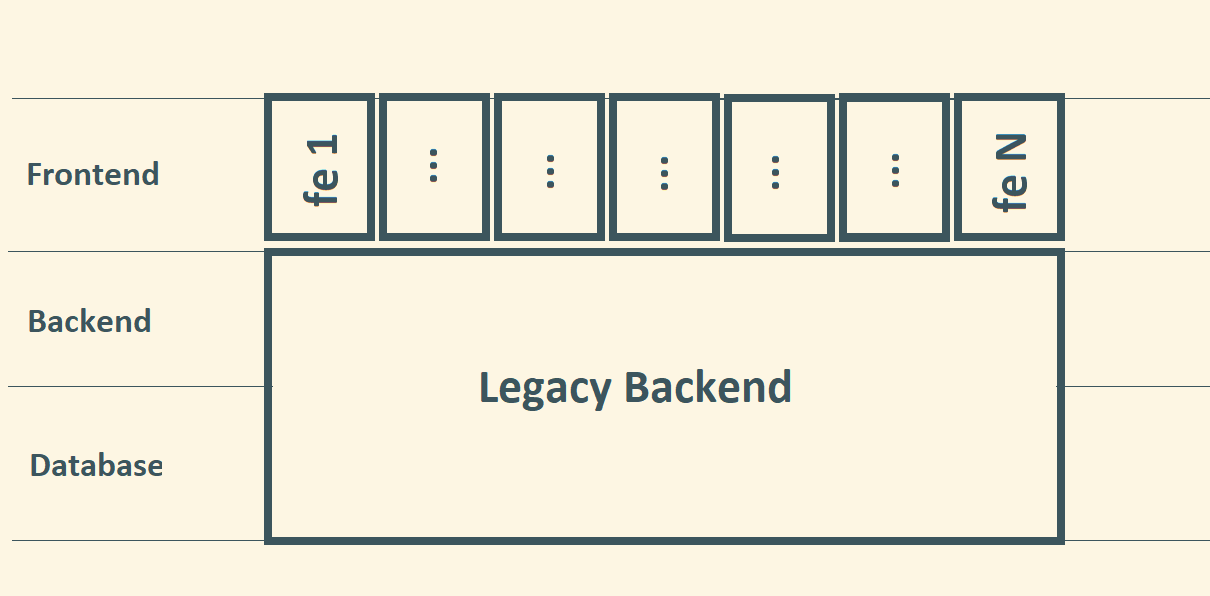
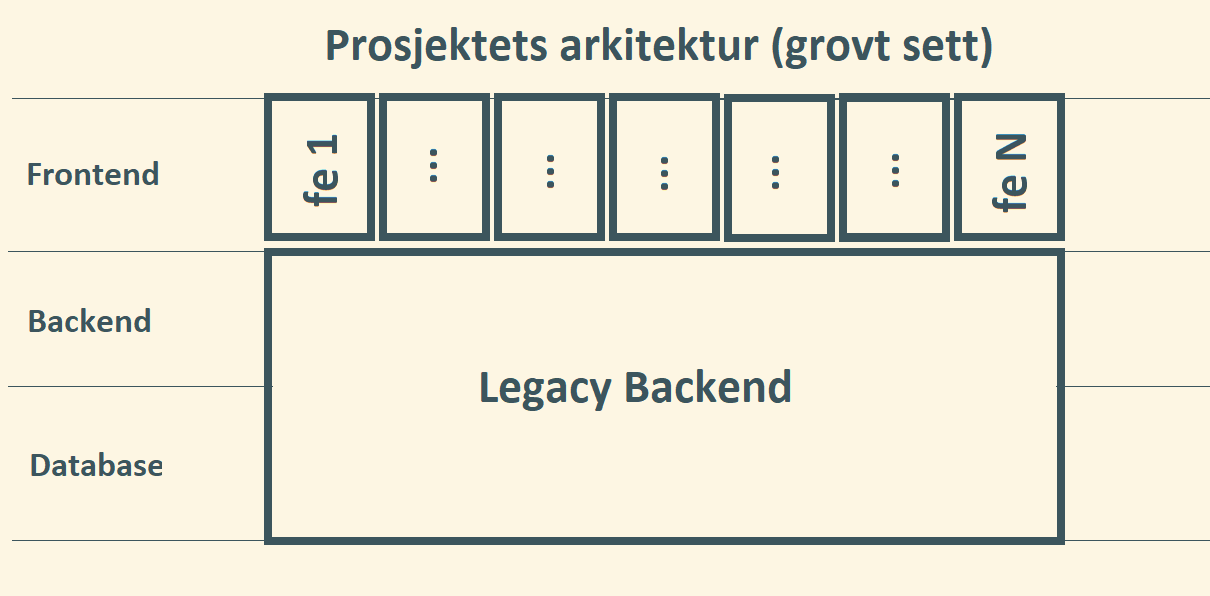
arkitektur-skisser

Changed region(s): [[0.2446, 0.0302, 0.8256, 0.1208]]

diff --git a/index.html b/index.html
@@ -53,6 +53,8 @@
             </aside>
         </section>
         <section data-markdown="./slides/architecuture-common.md"
+                 data-background="./slides/images/microfrontends/vanlige-arkitekturer.png"
+                 data-background-size="70%"
                  data-separator-notes="^Note:">
         </section>
         <section data-markdown="./slides/architecuture-microfrontends.md"
@@ -171,9 +173,13 @@
                  data-separator-notes="^Note:">
         </section>
         <section data-markdown="./slides/erfaringer-05.md"
+                 data-background="./slides/images/microfrontends/microfrontend-akritektur.png"
+                 data-background-size="70%"
                  data-separator-notes="^Note:">
         </section>
         <section data-markdown="./slides/erfaringer-06.md"
+                 data-background="./slides/images/microfrontends/prosjekt-aktiktektur.png"
+                 data-background-size="70%"
                  data-separator-notes="^Note:">
         </section>
         <section data-markdown="./slides/links.md"

diff --git a/slides/microfrontends-communication.md b/slides/microfrontends-communication.md
@@ -21,4 +21,7 @@ export default {
 ```
 
 Note:
-new CustomEvent(id, payload)
+new CustomEvent(id, payload)  
+Gjelder stort sett dersom w-c skal hente data fra backend eller lignende  
+NB: Kan bruke props til nød, jeg kommer tilbake til dette
+

diff --git a/slides/web-components.md b/slides/web-components.md
@@ -1,5 +1,7 @@
 # Web Components?
 
+Sånn vi trekker inn microfrontends
+
 Gjort mulig med følgende W3C-standarder:
 1. The Custom Elements specification
 2. The shadow DOM specification

diff --git a/slides/erfaringer-06.md b/slides/erfaringer-06.md
@@ -1,4 +1,3 @@
-# Prosjektets arkitektur
 
 Note: Web-components fungerer udmerket i en slik setting
       Meningsløst med microfrontends i en slik setting

diff --git a/slides/architecuture-microfrontends.md b/slides/architecuture-microfrontends.md
@@ -1,1 +1,1 @@
-# Microfrontend-arkitektur
+Note: Ligner litt på microservies, men tatt "all the way"

diff --git a/slides/poc-angular01.md b/slides/poc-angular01.md
@@ -25,3 +25,5 @@ export class AppModule {
   }
 }
 ```
+
+Note: Finnes en fin guide for angluar w-c

diff --git a/slides/poc-vue02.md b/slides/poc-vue02.md
@@ -49,3 +49,5 @@
     }
 </script>
 ```
+
+Note: style scoped setter shaddow dom styling
